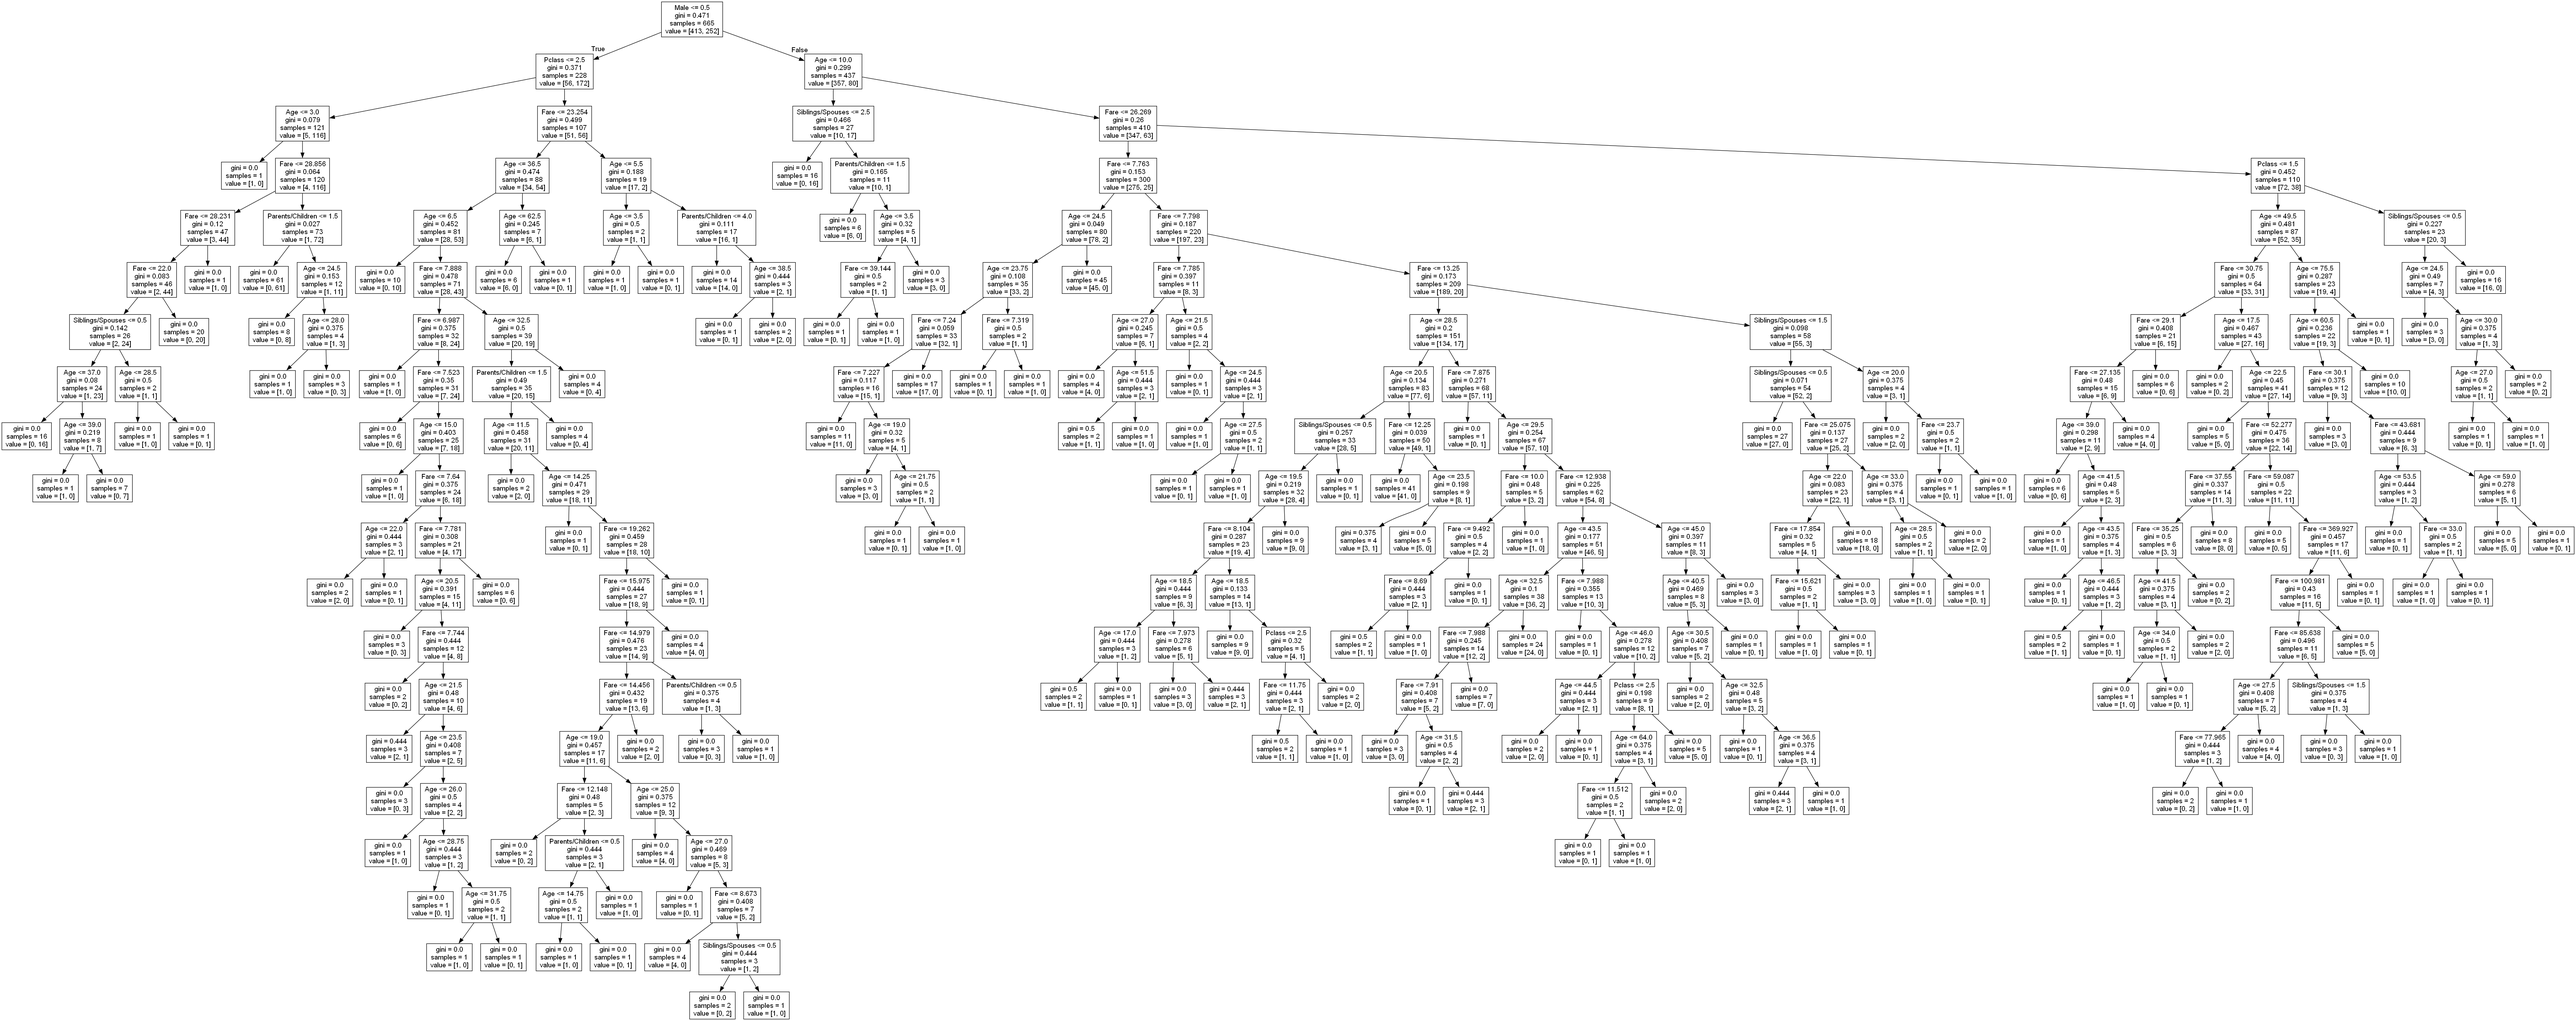
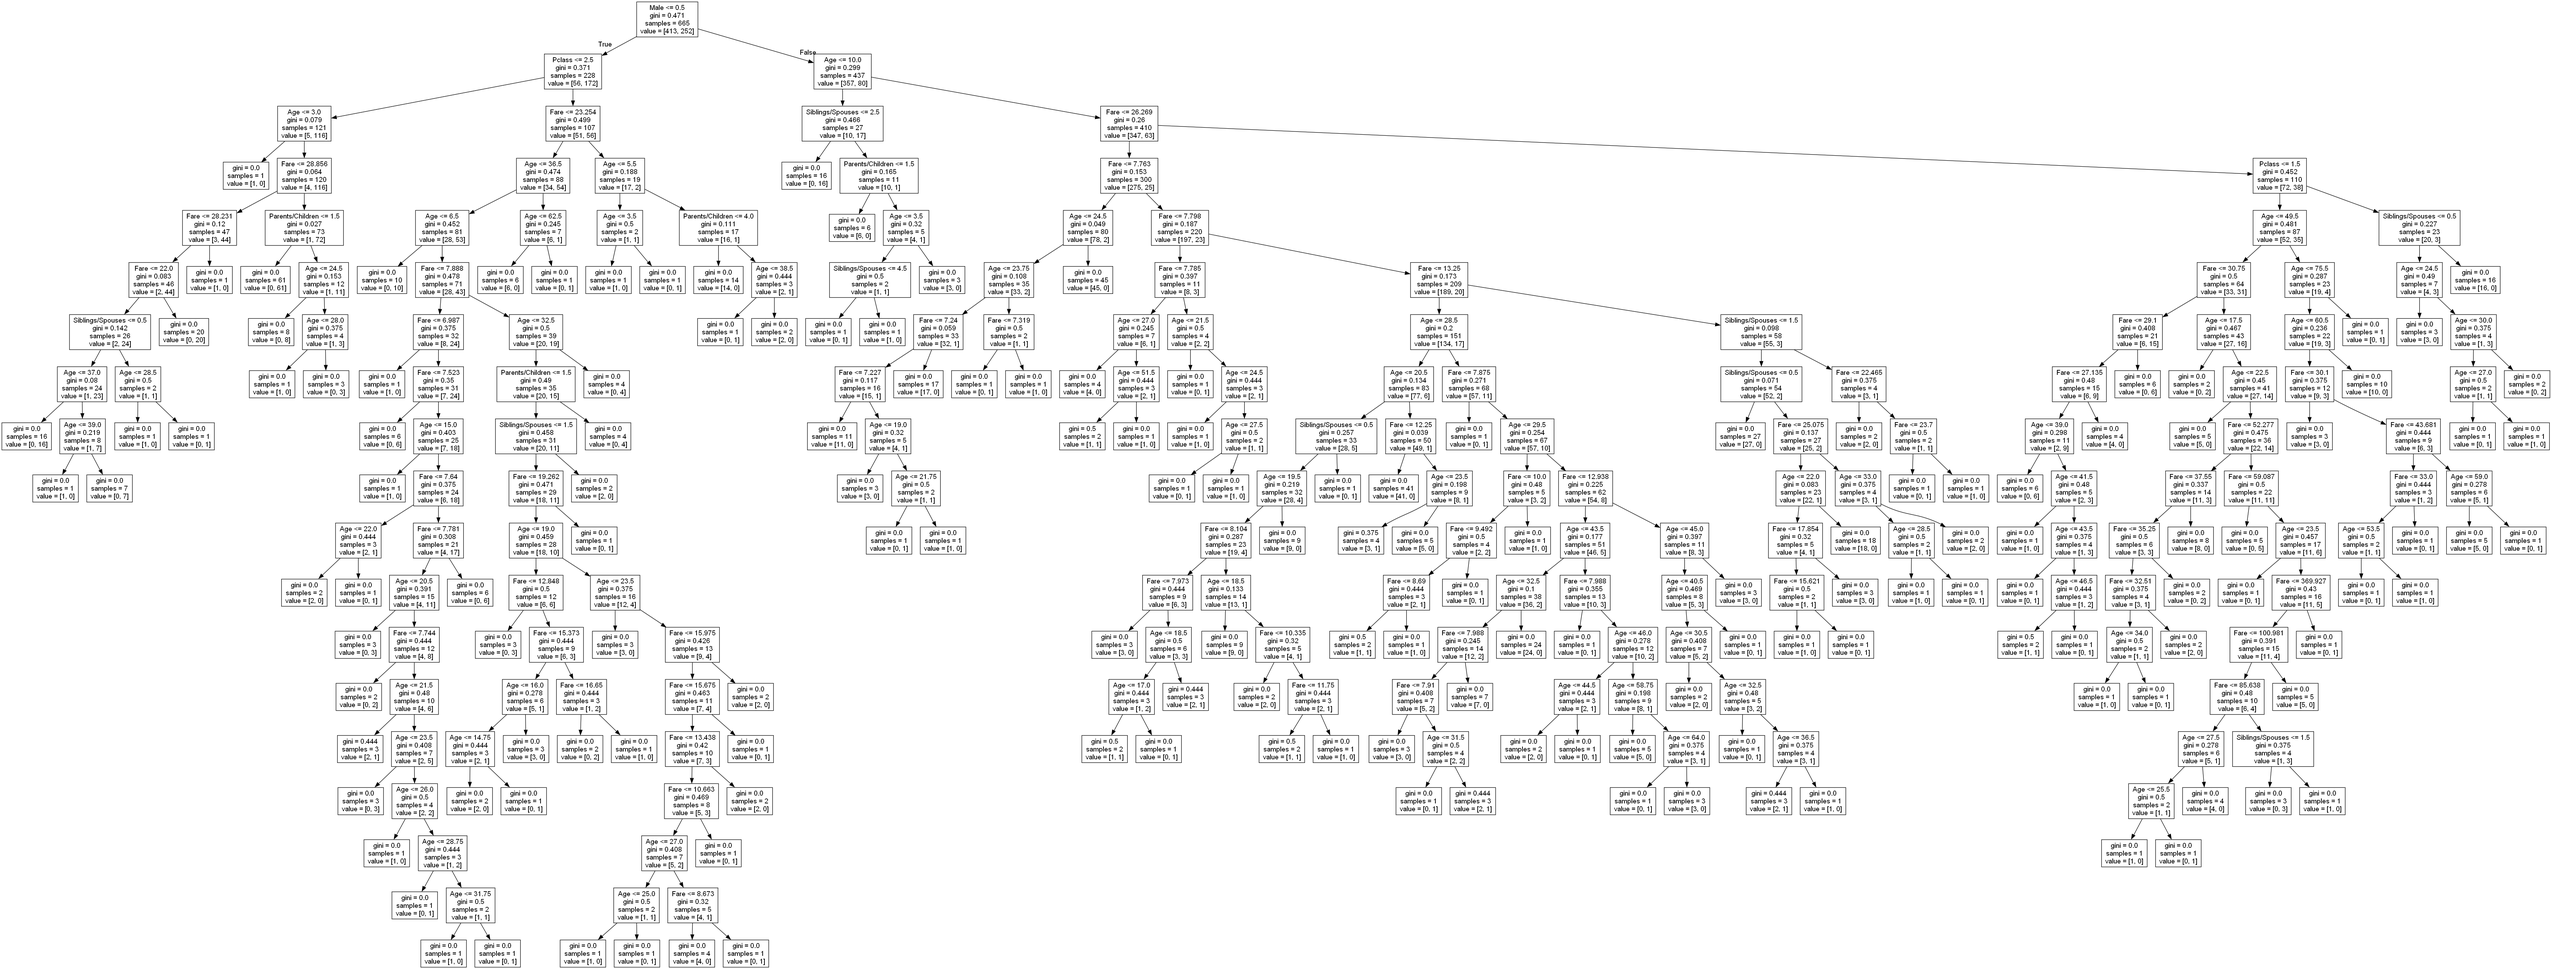
Day4 final commit

Changed region(s): [[0.0, 0.0, 1.0, 1.0]]

diff --git a/Submissions/Assignment2/nayem assignment2.py b/Submissions/Assignment2/nayem assignment2.py
@@ -44,74 +44,24 @@ df['smoker'] = df['smoker'] == 'Current'
 
 # print(df)
 
-df = df.dropna()
+# df = df.dropna()
+
+df = df.fillna(0)
+
+# print(df)
 
 # print(df.shape)
 
-# df['malignent'] = df['days_to_cancer'] > 0
+df['malignent'] = df['days_to_cancer'] > 0
 
 # print(df)
 
 # print((df['malignent'] == True).count)
 
-# X = df[['age','gender','race','smoker']].values
-# y = df['malignent'].values
+X = df[['age','gender','race','smoker']].values
+y = df['malignent'].values
 
-# X_train, X_test, y_train, y_test = split(X, y,train_size=0.7)
-
-# model = LgR()
-# model.fit(X_train,y_train)
-
-# y_pred = model.predict(X_test)
-
-# print("Accuaracy: ",acc(y_test,y_pred))
-
-# print("Precision: ",prec(y_test,y_pred))
-
-# print("Recall: ",recall(y_test,y_pred))
-
-# print("F1 score: ",f1(y_test,y_pred))
-
-
-
-
-# Let's creat negative classes!
-# Let's creat negative classes!
-
-# Let's creat negative classes!
-# Let's creat negative classes!
-
-X = df['stage_of_cancer']
-
-stage = []
-for x in X:
-    if (x not in stage):
-        stage.append(x)
-
-# print(stage)
-
-df['stage_of_cancer'] = assign_matching_indices(df['stage_of_cancer'],stage)
-
-# print(df['stage_of_cancer'])
-
-array = []
-for x in df['stage_of_cancer']:
-    if(x == 0 or x == 6):
-        array.append(False)
-    else:
-        array.append(True)
-
-# print(array)
-
-df['malignent2'] = array
-
-# print(df['malignent2'])
-
-
-X2 = df[['age','gender','race','smoker']].values
-y2 = df['malignent2'].values
-
-X_train, X_test, y_train, y_test = split(X2, y2,train_size=0.7)
+X_train, X_test, y_train, y_test = split(X, y,train_size=0.6)
 
 model = LgR()
 model.fit(X_train,y_train)
@@ -125,3 +75,56 @@ print("Precision: ",prec(y_test,y_pred))
 print("Recall: ",recall(y_test,y_pred))
 
 print("F1 score: ",f1(y_test,y_pred))
+
+
+
+# Let's creat negative classes!
+# Let's creat negative classes!
+
+# Let's creat negative classes!
+# Let's creat negative classes!
+
+# X = df['stage_of_cancer']
+
+# stage = []
+# for x in X:
+#     if (x not in stage):
+#         stage.append(x)
+
+# # print(stage)
+
+# df['stage_of_cancer'] = assign_matching_indices(df['stage_of_cancer'],stage)
+
+# # print(df['stage_of_cancer'])
+
+# array = []
+# for x in df['stage_of_cancer']:
+#     if(x == 0 or x == 6):
+#         array.append(False)
+#     else:
+#         array.append(True)
+
+# # print(array)
+
+# df['malignent2'] = array
+
+# # print(df['malignent2'])
+
+
+# X2 = df[['age','gender','race','smoker']].values
+# y2 = df['malignent2'].values
+
+# X_train, X_test, y_train, y_test = split(X2, y2,train_size=0.7)
+
+# model = LgR()
+# model.fit(X_train,y_train)
+
+# y_pred = model.predict(X_test)
+
+# print("Accuaracy: ",acc(y_test,y_pred))
+
+# print("Precision: ",prec(y_test,y_pred))
+
+# print("Recall: ",recall(y_test,y_pred))
+
+# print("F1 score: ",f1(y_test,y_pred))
